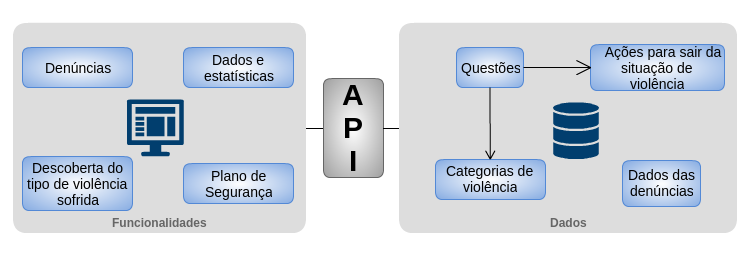
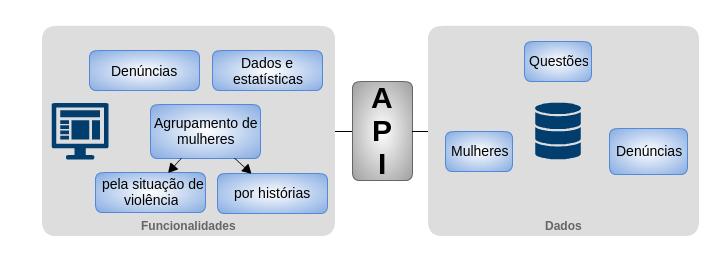
Atualizando objetivos

diff --git a/editaveis/introducao.tex b/editaveis/introducao.tex
@@ -17,7 +17,7 @@ Aproximadamente 54\% dos atendimentos foram para prestação de informações. D
 
 Ao longo dos anos, cenários como esse impulsionaram os governos à criação de políticas públicas (PP) para a redução da violência contra as mulheres e de estratégias de apoio às mulheres e de conscientização da população. Além disso, estratégias tecnológicas, como aplicativos e sites, têm surgido nesse contexto.
 
-O I-DECIDE é um projeto australiano, proveniente dessas estratégias, responsável por disponibilizar para as mulheres um site no qual elas podem avaliar sua relação, suas prioridades e planejar um futuro mais seguro. A ferramenta compreende avaliações de segurança e um processo de planejamento de ação individualizado adaptado às circunstâncias particulares de cada mulher \cite{idecide}.
+% O I-DECIDE é um projeto australiano, proveniente dessas estratégias, responsável por disponibilizar para as mulheres um site no qual elas podem avaliar sua relação, suas prioridades e planejar um futuro mais seguro. A ferramenta compreende avaliações de segurança e um processo de planejamento de ação individualizado adaptado às circunstâncias particulares de cada mulher \cite{idecide}.
 
 No Brasil, a criação da Lei Maria da Penha, da Lei do Feminicídio e de programas e serviços de apoio à causa 
 como o Disque-denúncia Ligue 180, a Casa da Mulher Brasileira e a Unidade Móvel de Atendimento são respostas aos cenários supracitados. No contexto de Tecnologia da Informação (TI), a criação de software têm sido apoiada pelo governo e realizada pela própria população.
@@ -27,22 +27,21 @@ denúncia até uma autoridade competente. Além disso, muitas aplicações preoc
 
 Diante desse cenário, é percebido que cada aplicação fornece apoio para a mulher e 
 gera dados importantes para o contexto, porém esses dados ficam apenas no domínio daquela aplicação. 
-Além disso, uma lacuna é identificada quanto ao fornecimento de um apoio mais específico de acordo com a situação de violência vivida pela mulher.
+% Além disso, uma lacuna é identificada quanto ao fornecimento de um apoio mais específico de acordo com a situação de violência vivida pela mulher.
 
 Uma \textit{Application Programming Interface} (API), é uma interface que expõe os seus componentes como um serviço, permitindo que outras aplicações interajam com esses componentes \cite{wagh2012comparative, understanding_web}. Essa arquitetura de serviços possibilita o compartilhamento dos dados armazenados com as aplicações que consomem o serviço. 
 
 \section{Objetivos}
 
-Considerando os aspectos supracitados, o objetivo do trabalho é criar uma API para uso em sistemas de tomada de decisão e planejamento de segurança, para mulheres vítimas de violência, que consolide as informações das aplicações existentes e forneça um apoio contextualizado de acordo com a situação da mulher.
+Considerando os aspectos supracitados, o objetivo do trabalho é criar uma API que consolide as informações das aplicações existentes e auxilie na descoberta de uma possível situação de violência e na criação de uma rede de apoio à mulher por meio de \textit{clusterização}.
 
 Para alcançar o objetivo proposto os objetivos específicos do trabalho são:
 \begin{itemize}
 	\item Mapear as funcionalidades em comum entre as aplicações existentes;
 	\item Definir as funcionalidades a serem consolidadas na API;
-	\item Definir um questionário padrão a ser respondido pelas mulheres para apoio a tomada de decisão;
-	\item Permitir que novas questões sejam inseridas pelas mulheres;
-	\item Categorizar as questões (padrão e inseridas);
-	\item Definir ações de segurança para as categorias de violência;
+	\item Definir as funcionalidades a serem consolidadas na API;
+	\item Avaliar algoritmos de clusterização;
+	\item Selecionar algoritmos de clusterização;
 \end{itemize}
 
 \section{Etapas do trabalho}
@@ -58,7 +57,7 @@ de funcionalidades em comum.
 
 \noindent \textbf{Planejamento}: Nesta etapa há o planejamento da realização do trabalho, como a definição de escopo e cronograma.
 
-\noindent \textbf{Desenvolvimento}: Esta etapa compreende a realização dos passos planejados para 
+\noindent \textbf{Desenvolvimento}: Esta etapa compreende a realização de iterações para 
 alcançar os objetivos definidos na etapa anterior.
 
 \noindent \textbf{Aplicação em um caso de exemplo}: Esta etapa consiste na construção de um exemplo utilizando o
